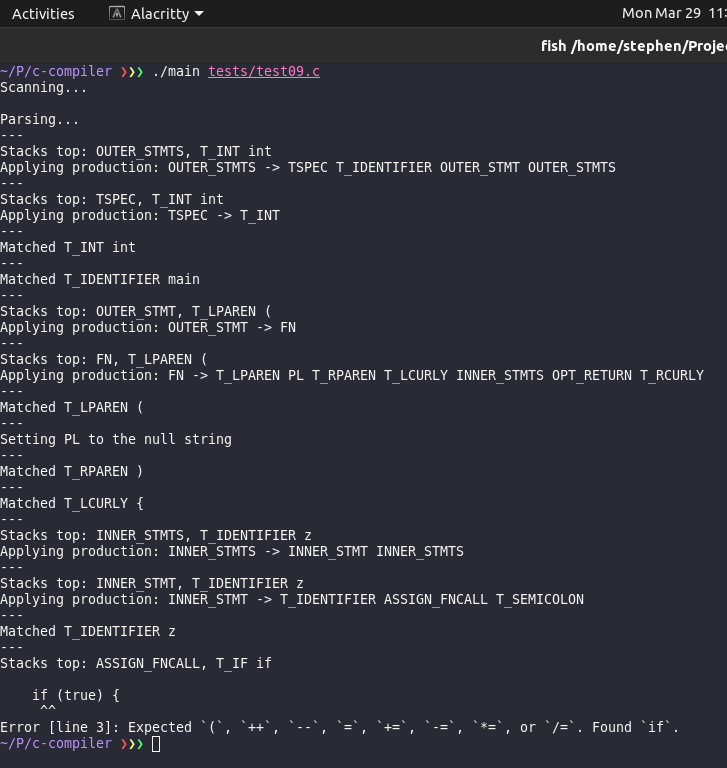
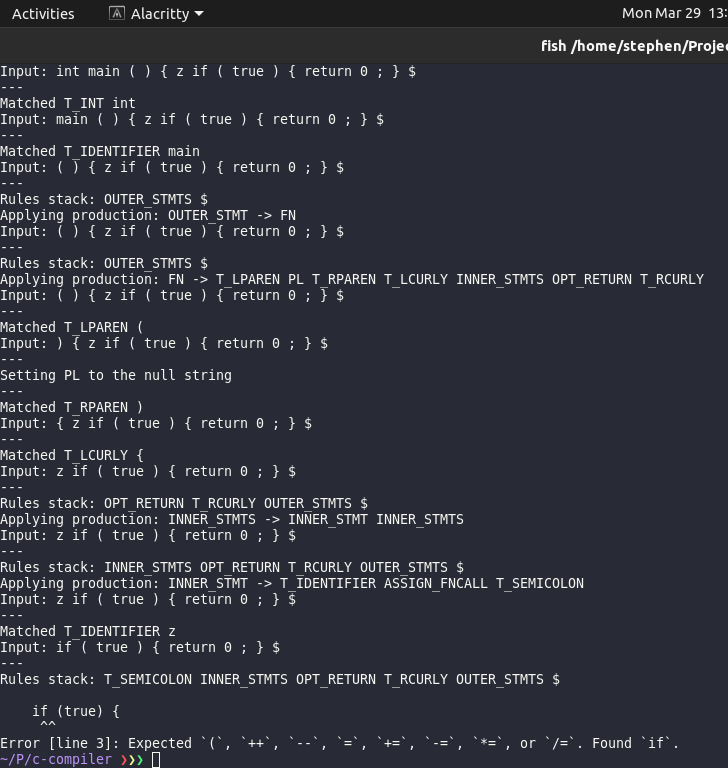
fixes

diff --git a/parser.hpp b/parser.hpp
@@ -11,6 +11,28 @@
 
 using namespace std;
 
+void print_input_stack(stack<TokenNode> tempinput) {
+    if (!tempinput.empty()) {
+        cout << "Input: ";
+        while (!tempinput.empty()) {
+            cout << tempinput.top().value << " ";
+            tempinput.pop();
+        }
+        cout << endl;
+    }
+}
+
+void print_rules_stack(stack<string> tempinput) {
+    if (!tempinput.empty()) {
+        cout << "Rules stack: ";
+        while (!tempinput.empty()) {
+            cout << tempinput.top() << " ";
+            tempinput.pop();
+        }
+        cout << endl;
+    }
+}
+
 void parse(vector<TokenNode> tokens, vector<string> lines) {
     stack<TokenNode> input;
     stack<TokenNode> tempinput;
@@ -52,19 +74,11 @@ void parse(vector<TokenNode> tokens, vector<string> lines) {
             if (rule == curr_inp) { // non-terminal matches on both stacks
                 input.pop();
                 cout << "Matched " << curr_inp << " " << curr_node.value << endl;
-                tempinput = input;
-                if(!tempinput.empty()){
-                    cout<<"Input: ";
-                    while (!tempinput.empty()){
-                        cout<<tempinput.top().value<<" ";
-                        tempinput.pop();
-                    }
-                    cout<<endl;
-                }
+                print_input_stack(input);
             } else if (nullable.find(rule) != nullable.end()) { // nullable production/rule
                 cout << "Setting " << rule << " to the null string" << endl;
             } else { // error
-                cout << "Stacks top: " << rule << ", " << curr_inp << " " << curr_node.value << endl;
+                print_rules_stack(rules);
 
                 if (rule == "$")
                     rule = "OUTER_STMTS";
@@ -88,22 +102,14 @@ void parse(vector<TokenNode> tokens, vector<string> lines) {
                 exit(0);
             }
         } else {
-            cout << "Stacks top: " << rule << ", " << curr_inp << " " << curr_node.value << endl;
+            print_rules_stack(rules);
             cout << "Applying production: " << rule << " -> ";
 
             for (string s: next)
                 cout << s << " ";
             cout << endl;
 
-            tempinput = input;
-            if(!tempinput.empty()){
-                cout<<"Input: ";
-                while (!tempinput.empty()){
-                    cout<<tempinput.top().value<<" ";
-                    tempinput.pop();
-                }
-                cout<<endl;
-            }
+            print_input_stack(input);
 
             reverse(next.begin(), next.end());
             // add all the parts of the production we're expanding to
